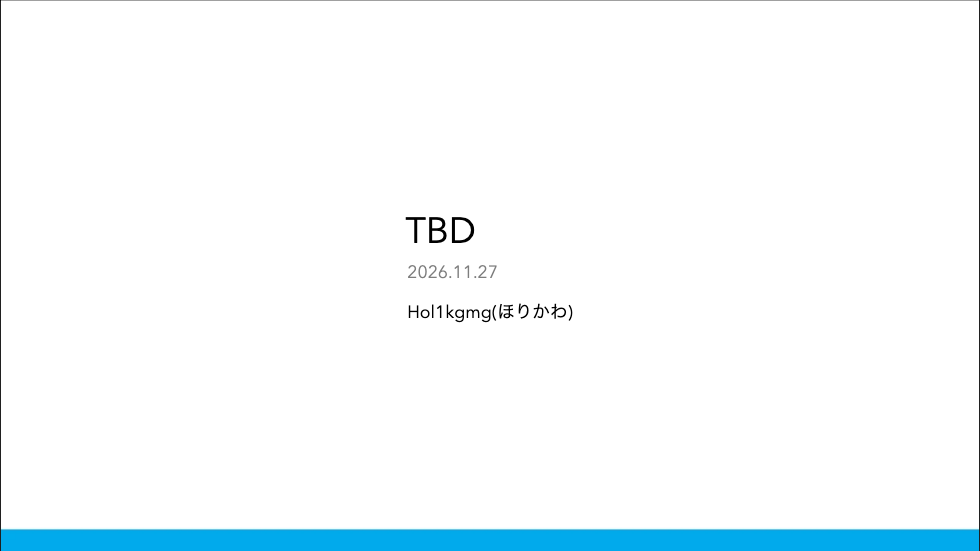
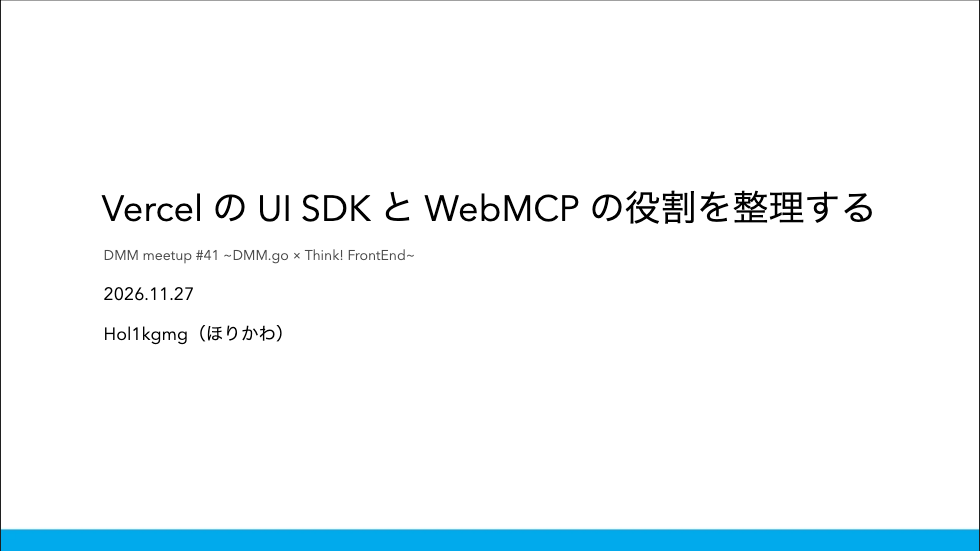
feat: 2026-11-27 を「Vercel の UI SDK と WebMCP の役割を整理する」の5分 LT に作り替え、2026-11-17 の WebMCP の説明スライドと図を流用して役割の違いを図で示す

diff --git a/2026-11-17/src/components/FrontendBranch.vue b/2026-11-17/src/components/FrontendBranch.vue
@@ -2,6 +2,7 @@
 // step: スライドのクリック数
 // 0: API → hooks → UI がまっすぐ縦に並ぶ
 // 1: UI が左にずれ、矢印が時計回りに傾いて追う → hooks から WebMCP の矢印が伸びる → registerTool が現れる（右の画面はその後に光る）
+// slot ui-badge: UI コンポーネントの箱に重ねる要素（2026-11-27 で UI SDK のタグを付ける）
 const props = defineProps<{ step: number }>()
 
 // 進むときだけ delay を付けて順番に動かし、戻るときはすぐ元に戻す
@@ -41,7 +42,8 @@ const arrow = 'absolute left-1/2 top-0 -ml-[0.6em] origin-top text-4xl transitio
     </div>
 
     <div class="w-96 flex justify-between">
-      <div :class="[layer, slide()]" class="transition-transform duration-500">
+      <div :class="[layer, slide()]" class="relative transition-transform duration-500">
+        <slot name="ui-badge" />
         UI コンポーネント<div :class="note">
           検索欄・カートボタン
         </div>

diff --git a/2026-11-27/src/components/FrontendBranch.vue b/2026-11-27/src/components/FrontendBranch.vue
@@ -1,0 +1,1 @@
+../../../2026-11-17/src/components/FrontendBranch.vue

diff --git a/2026-11-27/src/components/WebMcpFlow.vue b/2026-11-27/src/components/WebMcpFlow.vue
@@ -1,0 +1,1 @@
+../../../2026-11-17/src/components/WebMcpFlow.vue

diff --git a/2026-11-27/src/components/EcScreen.vue b/2026-11-27/src/components/EcScreen.vue
@@ -1,0 +1,1 @@
+../../../2026-11-17/src/components/EcScreen.vue

diff --git a/2026-11-27/src/slides.md b/2026-11-27/src/slides.md
@@ -8,18 +8,22 @@ mdc: true
 lang: ja
 favicon: /images/shared/Hol1kgmg_prof_img_round.webp
 routerMode: hash
-title: TBD
+title: Vercel の UI SDK と WebMCP の役割を整理する
 seoMeta:
-  ogDescription: "DMM meetup #41 ~DMM.go × Think! FrontEnd~。MacBook のタッチ操作対応を受けて、ホバー・ホールド操作をどう判定するかの話"
+  ogDescription: "DMM meetup #41 ~DMM.go × Think! FrontEnd~。Vercel の UI SDK と WebMCP の役割の違いを整理する話"
   ogImage: auto
   twitterCard: summary_large_image
 ---
 
-# TBD
+<!-- 目安: 自己紹介と合わせて30秒。全体の時間配分は memo.md の「時間配分」を参照 -->
+
+# Vercel の UI SDK と WebMCP の役割を整理する
+
+<div class="text-sm opacity-70">DMM meetup #41 ~DMM.go × Think! FrontEnd~</div>
 
 2026.11.27
 
-Hol1kgmg(ほりかわ)
+Hol1kgmg（ほりかわ）
 
 ---
 layout: default
@@ -33,4 +37,205 @@ layout: default
 layout: default
 ---
 
+<!-- 目安: 20秒 -->
+
+# AI エージェント向けのフロントエンド技術が増えている
+
+<div class="h-4/5 flex items-center justify-center gap-10">
+  <div class="w-80 rounded-xl border-2 border-gray-500 bg-white px-6 py-5 shadow">
+    <div class="text-2xl font-bold">UI SDK</div>
+    <div class="mt-2 text-sm opacity-70">Vercel Labs。2026年11月にベータ公開</div>
+  </div>
+  <div class="w-80 rounded-xl border-2 border-gray-500 bg-white px-6 py-5 shadow">
+    <div class="text-2xl font-bold">WebMCP</div>
+    <div class="mt-2 text-sm opacity-70">ブラウザの API。Chromium で実験中</div>
+  </div>
+</div>
+
+---
+layout: default
+---
+
+<!-- 目安: 25秒。TODO: 公式サイト（ui-sdk.dev）の英語の原文も添えるか検討 -->
+
+# UI SDK の公式の説明
+
+<div class="h-4/5 flex flex-col justify-center gap-8">
+
+> エージェントが次世代のユーザーインターフェースを構築するための動作ライブラリ
+
+- しかも **WebMCP に対応している**（`registerTools`）
+
+</div>
+
+---
+layout: center
+---
+
+<!-- 目安: 10秒 -->
+
+<div class="text-2xl font-bold">
+  AI エージェント向けのフロントエンド技術が<br>
+  AI エージェント向けのフロントエンド技術をサポートしている…???
+</div>
+
+<!-- TODO: ジョジョの1コマを `just image` で追加して差し替える -->
+<div class="mx-auto mt-8 h-60 w-100 flex items-center justify-center border-2 border-dashed border-gray-400 text-sm opacity-60">
+  画像（後で追加）
+</div>
+
+---
+layout: section
+---
+
+<!-- 目安: 10秒 -->
+
+# それぞれのざっくりした説明
+
+---
+layout: default
+---
+
+<!-- 目安: 40秒 -->
+
+# UI SDK とは
+
+<div class="h-4/5 flex flex-col justify-center">
+
+- フォーカス移動・選択・ポップアップなど、UI の **動作** を提供するヘッドレス UI
+  - UI 開発を助ける
+- 各コンポーネントが、エージェントに許す **操作** を宣言する
+- エージェントは **UI を通して** 操作する
+
+</div>
+
+---
+layout: default
+---
+
+<!-- 目安: 35秒。2026-11-17 から流用 -->
+
+# WebMCP とは
+
+<PrintClicks :at="0" />
+
+<SlideBody height="h-4/5" right-class="w-1/2 flex items-center justify-center">
+<template #left>
+<div class="h-full flex flex-col justify-center gap-4">
+
+- ページが **ツール** を登録し、ブラウザの中のエージェントに呼ばせる API
+
+```ts {*|1,8|3-5|6}
+await document.modelContext.registerTool(
+  {
+    name: 'navigate',
+    description: '…',
+    inputSchema: { /* … */ },
+    execute: async (input) => { /* … */ },
+  },
+  { signal },
+)
+```
+
+</div>
+</template>
+<template #right>
+<WebMcpFlow :step="$clicks" />
+</template>
+</SlideBody>
+
+<div class="absolute bottom-10 right-12 text-xs opacity-60">
+  ※ 実験段階。Chromium は <code>--enable-features=WebMCP</code> を付けたときだけ動く
+</div>
+
+---
+layout: default
+clicks: 1
+---
+
+<!-- 目安: 35秒。2026-11-17 から流用。hooks から WebMCP の枝が生えると、画面は同じまま AI にもツールが見える -->
+
+# 既存のコードを活用できる
+
+<SlideBody left-class="w-1/2 flex items-center justify-center" right-class="w-1/2 flex flex-col items-center justify-center gap-4">
+<template #left>
+<FrontendBranch :step="$clicks" />
+</template>
+<template #right>
+<div>
+  <div class="mb-2 text-center text-sm font-bold opacity-70">利用者から見えること</div>
+  <EcScreen :lit="$clicks >= 1" delay="delay-1500" />
+</div>
+<div>
+  <div class="mb-2 text-center text-sm font-bold opacity-70">AI から見えること</div>
+  <div class="relative w-88 flex items-center gap-3 rounded-xl border-2 border-gray-500 bg-white px-5 py-3 text-sm shadow">
+    <ph-robot-duotone class="text-xl" />
+    <span class="opacity-50 transition-opacity duration-300" :class="$clicks >= 1 && 'opacity-0!'">使えるツール: なし</span>
+    <div class="absolute left-14 flex gap-3 transition-opacity duration-500" :class="$clicks >= 1 ? 'opacity-100 delay-2000' : 'opacity-0'">
+      <span class="flex items-center gap-1 rounded-full border border-sky-500 bg-white px-2 py-0.5 text-xs ring-2 ring-sky-500"><ph-magnifying-glass />search</span>
+      <span class="flex items-center gap-1 rounded-full border border-sky-500 bg-white px-2 py-0.5 text-xs ring-2 ring-sky-500"><ph-shopping-cart />add_to_cart</span>
+    </div>
+  </div>
+</div>
+</template>
+</SlideBody>
+
+---
+layout: section
+---
+
+<!-- 目安: 10秒 -->
+
+# 役割の違い
+
+
+---
+layout: default
+---
+
+<!-- 目安: 45秒。前のスライドのフロー図の完成形に、UI SDK と WebMCP がつながる場所を足す -->
+
+# 役割の違い
+
+<SlideBody left-class="w-1/2 flex flex-col items-center justify-center gap-1" right-class="w-1/2 flex flex-col justify-center gap-6 pl-4">
+<template #left>
+<FrontendBranch :step="1">
+<template #ui-badge>
+  <!-- 通常の UI コンポーネントに UI SDK を付けていることを示すタグ -->
+  <div class="absolute -left-3 -top-3 rounded border-2 border-violet-500 bg-white px-1.5 text-xs font-bold text-violet-600 shadow">UI SDK</div>
+</template>
+</FrontendBranch>
+<!-- FrontendBranch の下段（w-96 の両端に w-44 の箱）に列をそろえる -->
+<div class="w-96 flex justify-between text-sm">
+  <div class="w-44" />
+  <!-- WebMCP は上の registerTool そのものなので、箱は足さずラベルだけ置く -->
+  <div class="w-44 text-center font-bold text-sky-600">WebMCP</div>
+</div>
+</template>
+<template #right>
+<div>
+  <div class="font-bold text-violet-600">UI SDK → UI コンポーネント</div>
+  <div class="text-sm opacity-70">UI を作り、エージェントに UI を通して操作させる</div>
+</div>
+<div>
+  <div class="font-bold text-sky-600">WebMCP → hooks</div>
+  <div class="text-sm opacity-70">UI の裏側の処理を、ツールとして直接渡す</div>
+</div>
+</template>
+</SlideBody>
+
+<div class="absolute bottom-10 right-12 text-xs opacity-60">
+  ※ UI SDK の WebMCP 対応は、UI の操作（<code>snapshot</code> / <code>query</code> / <code>act</code>）を WebMCP のツールとして登録するもの
+</div>
+
+---
+layout: default
+---
+
+<!-- 目安: 25秒 -->
+
 # まとめ
+
+- **UI SDK**: UI 開発を助けつつ、エージェントに UI をどう操作させるかを定義する
+- **WebMCP**: 状態操作や hooks など、UI の裏側の処理を直接ツールとして渡す
+- UI SDK の WebMCP 対応は、UI の操作をブラウザのエージェントに届ける経路として WebMCP を使うもの

diff --git a/2026-11-27/src/memo.md b/2026-11-27/src/memo.md
@@ -1,16 +1,36 @@
-# TBD
+# Vercel の UI SDK と WebMCP の役割を整理する
 
-2026/11/27 DMM meetup #41 ~DMM.go × Think! FrontEnd~（?分）
+2026/11/27 DMM meetup #41 ~DMM.go × Think! FrontEnd~（5分 LT）
 https://dmm.connpass.com/event/402090/
 
 ## テーマ
 
-MacBook のタッチ操作対応を受けて、ホバー・ホールド操作をどう判定するかの話
+Vercel の UI SDK と WebMCP の役割の違いを整理する話
 
-## 対象
+## 参考
 
-## 目的（聴衆に知ってもらうこと）
-
+- https://azukiazusa.dev/blog/ui-sdk-agent-ready-behaviors/
+- https://ui-sdk.dev/docs/agents/connect-an-agent
+- https://ui-sdk.dev/docs/agents/connect-an-agent/webmcp
+  - `registerTools(agent, { allow })` は `snapshot` / `query` / `act` の3つを `document.modelContext.registerTool` で登録する（コンポーネントごとではない）
+- 2026-11-17「WebMCP をどう使うべきか」（「WebMCP とは」「既存のコードを活用できる」を流用。コンポーネントは `src/components/` にシンボリックリンク）
 ## 結論
 
-## 構成
+- UI SDK: UI 開発を助けつつ、エージェントに UI をどう操作させるかを定義する
+- WebMCP: 状態操作や hooks など、UI の裏側の処理を直接ツールとして渡す
+
+## 構成と時間配分
+
+| # | スライド | 目安 |
+|---|---|---|
+| 1–2 | タイトル・自己紹介 | 30秒 |
+| 3 | AI エージェント向けのフロントエンド技術が増えている | 20秒 |
+| 4 | UI SDK の公式の説明（WebMCP に対応） | 25秒 |
+| 5 | 「…をサポートしている…???」（ジョジョの1コマ） | 10秒 |
+| 6 | section「役割の違いをざっくり」 | 10秒 |
+| 7 | UI SDK とは | 40秒 |
+| 8 | WebMCP とは（流用） | 35秒 |
+| 9 | 既存のコードを活用できる（流用） | 35秒 |
+| 10 | 役割の違い（図） | 45秒 |
+| 11 | まとめ | 25秒 |
+| | **合計** | **275秒** |

diff --git a/2026-11-27/README.md b/2026-11-27/README.md
@@ -1,5 +1,5 @@
-# TBD
+# Vercel の UI SDK と WebMCP の役割を整理する
 
-2026/11/27 - DMM meetup #41 ~DMM.go × Think! FrontEnd~。MacBook のタッチ操作対応を受けて、ホバー・ホールド操作をどう判定するかの話
+2026/11/27 - DMM meetup #41 ~DMM.go × Think! FrontEnd~。Vercel の UI SDK と WebMCP の役割の違いを整理する話
 
 https://dmm.connpass.com/event/402090/
